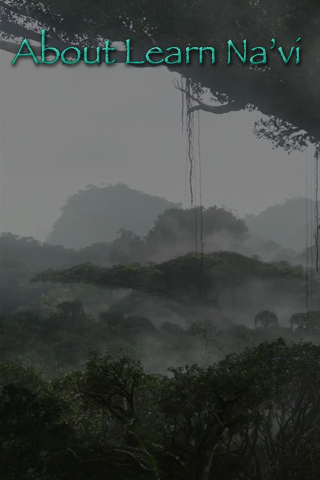
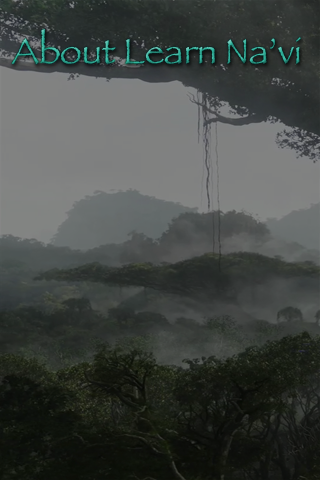
Added 2x High Res images, Updated the Entry View GUI to look better.

diff --git a/iPhone OS/AboutDisclaimerViewController.m b/iPhone OS/AboutDisclaimerViewController.m
@@ -11,7 +11,7 @@
 
 @implementation AboutDisclaimerViewController
 
-@synthesize contentText, contentTextShadow, bg_image;
+@synthesize contentText, contentTextShadow, bg_image, versionText;
 
 
  // The designated initializer.  Override if you create the controller programmatically and want to perform customization that is not appropriate for viewDidLoad.
@@ -40,8 +40,11 @@
     [super viewDidLoad];
 	if(type){
 		[self setupAbout];
+		[[self versionText] setText:[self versionString]];
+		[[self versionText] setHidden:NO];
 	} else {
 		[self setupDisclaimer];
+		[[self versionText] setHidden:YES];
 	}
 }
 
@@ -81,8 +84,8 @@
 	NSString *path = [[NSBundle mainBundle] pathForResource:@"AboutBackground" ofType:@"png"];
 	[bg_image setImage:[UIImage imageWithContentsOfFile:path]];
 	NSLog(@"Path: %@",path);
-	[contentText setText:@"Learn Na'vi was created by Michael Gillogly aka \"Seze\" from the Learn Na'vi online community.  It was created for the online community as a reference and learning tool.  Special thanks goes to Taronyu and Tuiq for providing the dictionary content and all the members from the Learn Na'vi online community that helped with the development process..."];
-	[contentTextShadow setText:@"Learn Na'vi was created by Michael Gillogly aka \"Seze\" from the Learn Na'vi online community.  It was created for the online community as a reference and learning tool.  Special thanks goes to Taronyu and Tuiq for providing the dictionary content and all the members from the Learn Na'vi online community that helped with the development process..."];
+	[contentText setText:@"Learn Na'vi was created by Seze Ngrr from the Learn Na'vi online community.  It was created for the online community as a reference and learning tool.  Special thanks goes to Taronyu and Tuiq for providing the dictionary content and all the members from the Learn Na'vi online community that helped with the development process..."];
+	[contentTextShadow setText:@"Learn Na'vi was created by Seze Ngrr from the Learn Na'vi online community.  It was created for the online community as a reference and learning tool.  Special thanks goes to Taronyu and Tuiq for providing the dictionary content and all the members from the Learn Na'vi online community that helped with the development process..."];
 }
 
 - (void)setupDisclaimer {
@@ -94,5 +97,27 @@
 	[contentTextShadow setText:@"The Na'vi language was created by Paul Frommer. Much of the information displayed in this App was written by Prof. Frommer and is presented here for educational purposes only. Learn Na'vi is not affiliated with the official Avatar website, James Cameron, or the Twentieth Century-Fox Film Corporation. All trademarks and servicemarks are the properties of their respective owners."];
 }
 
+- (NSString *)bundleVersionNumber {
+	return [[[NSBundle mainBundle] infoDictionary]
+			valueForKey:@"CFBundleVersion"];
+}
+
+- (NSString *)bundleShortVersionString {
+	return [[[NSBundle mainBundle] infoDictionary]
+			valueForKey:@"SVN_Version"];
+}
+
+- (NSString *)versionString {
+	//NSUserDefaults *prefs = [NSUserDefaults standardUserDefaults];
+	//NSString *dictionary_version = [prefs stringForKey:@"database_version"];
+	//NSString *dictionary_preupdate_version = [prefs stringForKey:@"database_pre-update_version"];
+	//if (dictionary_preupdate_version == nil) {
+	//	dictionary_preupdate_version = @"0";
+	//	[prefs setObject:@"0" forKey:@"database_pre-update_version"];
+	//}
+	//return [NSString stringWithFormat:@"Version %@ (%@-%@-%@)",[self bundleVersionNumber], [self bundleShortVersionString], dictionary_version, dictionary_preupdate_version];
+	return [NSString stringWithFormat:@"Version %@ (%@)",[self bundleVersionNumber], [self bundleShortVersionString]];//, [self bundleShortVersionString], dictionary_version, dictionary_preupdate_version];
+	
+}
 
 @end

diff --git a/iPhone OS/AboutDisclaimerViewController.h b/iPhone OS/AboutDisclaimerViewController.h
@@ -13,15 +13,21 @@
 	UITextView *contentText;
 	UITextView *contentTextShadow;
 	UIImageView *bg_image;
+	UILabel *versionText;
 	BOOL type;
 }
 
 @property (nonatomic, retain) IBOutlet UITextView *contentText, *contentTextShadow;
 @property (nonatomic, retain) IBOutlet UIImageView *bg_image;
+@property (nonatomic, retain) IBOutlet UILabel *versionText;
 
 - (id)initWithNibName:(NSString *)nibNameOrNil bundle:(NSBundle *)nibBundleOrNil type:(BOOL)contentType;
 - (IBAction)doneReading:(id)sender;
 - (void)setupAbout;
 - (void)setupDisclaimer;
+
+- (NSString *)versionString;
+- (NSString *)bundleShortVersionString;
+- (NSString *)bundleVersionNumber;
 
 @end

diff --git a/iPhone OS/DictionaryEntryViewController.m b/iPhone OS/DictionaryEntryViewController.m
@@ -42,15 +42,15 @@
 - (void)viewWillAppear:(BOOL)animated {
     [super viewWillAppear:animated];
 	//[[self navigationItem] setTitle:@"Entry"];
-	if(mode){
+	//if(mode){
 		[definition setText:[self.entry english_definition]];
 		[term setText:[self.entry navi]];
 		
-	} else {
-		[definition setText:[self.entry navi]];
-		[term setText:[self.entry english_definition]];
+	//} else {
+		//[definition setText:[self.entry navi]];
+		//[term setText:[self.entry english_definition]];
 		
-	}
+	//}
 	
 	
 	[ipa setText:[self.entry ipa]];

diff --git a/iPhone OS/Classes/AppViewController.m b/iPhone OS/Classes/AppViewController.m
@@ -49,7 +49,7 @@
 	//Update the App version string
 	NSLog(@"%@", [self versionString]);
 	[betaText setText:[self versionString]];
-
+	[betaText setHidden:YES];
 }
 
 
